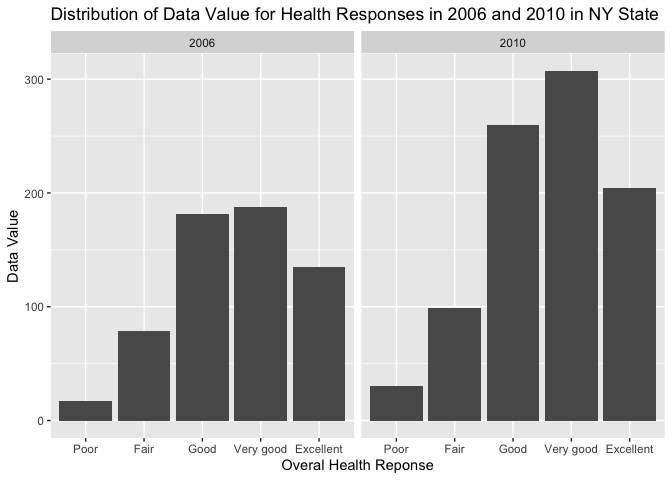
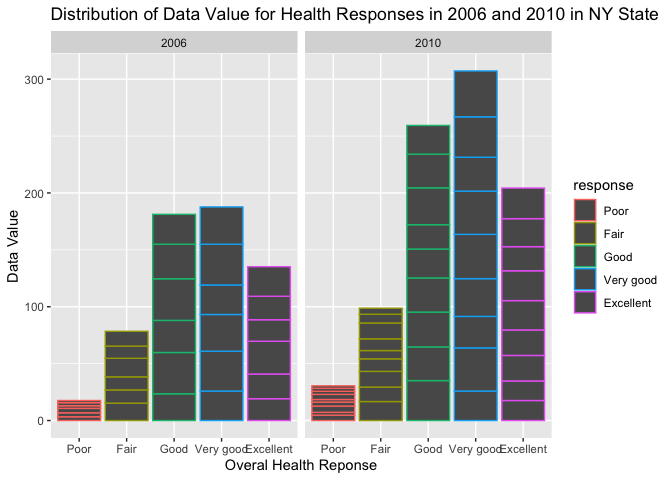
plot

diff --git a/p8105_HW3_lsj2122.md b/p8105_HW3_lsj2122.md
@@ -216,7 +216,7 @@ clustered.
 brfss |> 
   filter(year == "2006" | year == "2010", 
          locationabbr == "NY") |> 
-  ggplot(aes(x = response, y = data_value)) +
+  ggplot(aes(x = response, y = data_value, color = response)) +
   geom_col() + 
   facet_wrap(~ year) + 
   labs(
@@ -278,6 +278,34 @@ demo_accel =
 ```
 
 ### Part 2. Produce a table for the number of men and women in each education category
+
+``` r
+demo_accel |> 
+  group_by(sex, education) |> 
+  summarize(n_people = n()) |> 
+  pivot_wider(
+    names_from = education,
+    values_from = n_people
+  ) |> 
+  knitr::kable()
+```
+
+    ## `summarise()` has grouped output by 'sex'. You can override using the `.groups`
+    ## argument.
+
+| sex    | Less than high school | High school or equivalent | More than high school |
+|:-------|----------------------:|--------------------------:|----------------------:|
+| female |                    28 |                        23 |                    59 |
+| male   |                    27 |                        35 |                    56 |
+
+``` r
+demo_accel |> 
+  ggplot(aes(x = education, y = age, color = education)) +
+  geom_boxplot() +
+  facet_grid(.~sex)
+```
+
+![](p8105_HW3_lsj2122_files/figure-gfm/unnamed-chunk-5-1.png)<!-- -->
 
 ### Part 3. Create a total activity variable for each participant and plot
 
